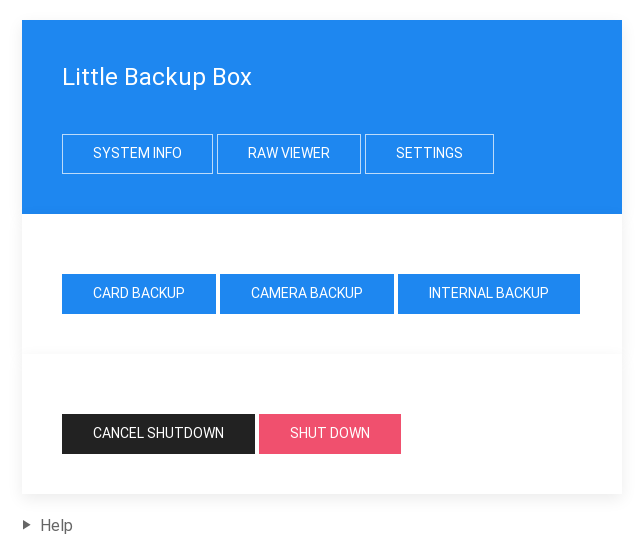
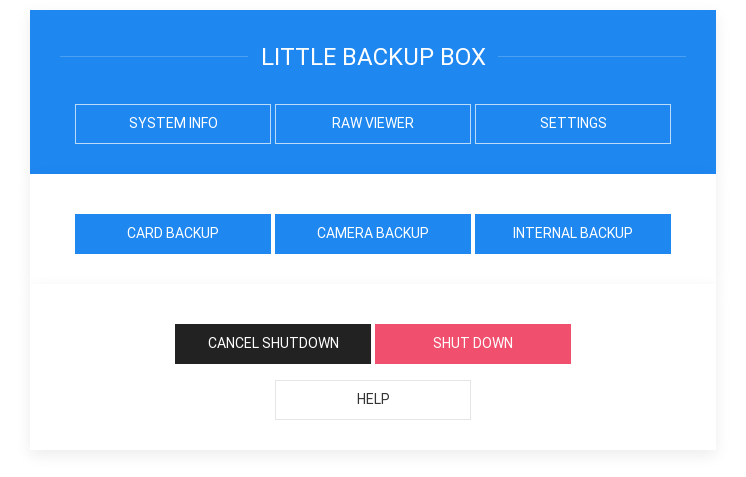
Further UI tweaks

diff --git a/scripts/index.php b/scripts/index.php
@@ -10,6 +10,11 @@
 	<link rel="stylesheet" href="css/uikit.min.css" />
 	<script src="js/uikit.min.js"></script>
 	<script src="js/uikit-icons.min.js"></script>
+	<style>
+		.uk-button {
+			width: 14em;
+		}
+	</style>
 </head>
 
 <body>
@@ -19,25 +24,35 @@
 	$i18n = new i18n('lang/{LANGUAGE}.ini', 'cache/', 'en');
 	$i18n->init();
 	?>
-	<div class="uk-container uk-margin-top">
-		<div class="uk-card uk-card-primary uk-card-body uk-width-1-2@m">
-			<h1 class="uk-card-title">Little Backup Box</h1>
-			<a class="uk-button uk-button-default uk-margin-top" href="sysinfo.php"><?php echo L::sysinfo; ?></a>
-			<a class="uk-button uk-button-default uk-margin-top" href="raw-viewer/"><?php echo L::viewer; ?></a>
-			<a class="uk-button uk-button-default uk-margin-top" href="config.php"><?php echo L::config; ?></a>
+	<div class="uk-container uk-margin-small-top">
+		<div class="uk-card uk-card-primary uk-card-body uk-text-center">
+			<h1 class="uk-card-title uk-heading-line uk-text-center"><span>LITTLE BACKUP BOX</span></h1>
+			<a class="uk-button uk-button-default uk-margin-small-top" href="sysinfo.php"><?php echo L::sysinfo; ?></a>
+			<a class="uk-button uk-button-default uk-margin-small-top" href="raw-viewer/"><?php echo L::viewer; ?></a>
+			<a class="uk-button uk-button-default uk-margin-small-top" href="config.php"><?php echo L::config; ?></a>
 		</div>
-		<div class="uk-card uk-card-default uk-card-body uk-width-1-2@m">
+		<div class="uk-card uk-card-default uk-card-body uk-text-center">
 			<form method="post">
-				<button class="uk-button uk-button-primary uk-margin-top" name="cardbackup"><?php echo L::cardbackup_b; ?></button>
-				<button class="uk-button uk-button-primary uk-margin-top" name="camerabackup"><?php echo L::camerabackup_b; ?></button>
-				<button class="uk-button uk-button-primary uk-margin-top" name="internalbackup"><?php echo L::internalbackup_b; ?></button>
+				<button class="uk-button uk-button-primary uk-margin-small-top" name="cardbackup"><?php echo L::cardbackup_b; ?></button>
+				<button class="uk-button uk-button-primary uk-margin-small-top" name="camerabackup"><?php echo L::camerabackup_b; ?></button>
+				<button class="uk-button uk-button-primary uk-margin-small-top" name="internalbackup"><?php echo L::internalbackup_b; ?></button>
 			</form>
 		</div>
-		<div class="uk-card uk-card-default uk-card-body uk-width-1-2@m">
+		<div class="uk-card uk-card-default uk-card-body uk-text-center">
 			<form method="post">
-				<button class="uk-button uk-button-secondary uk-margin-top" name="cancelshutdown"><?php echo L::cancel_shutdown_b; ?></button>
-				<button class="uk-button uk-button-danger uk-margin-top" name="shutdown"><?php echo L::shutdown_b; ?></button>
+				<button class="uk-button uk-button-secondary uk-margin-small-top" name="cancelshutdown"><?php echo L::cancel_shutdown_b; ?></button>
+				<button class="uk-button uk-button-danger uk-margin-small-top" name="shutdown"><?php echo L::shutdown_b; ?></button>
 			</form>
+			<button class="uk-button uk-button-default" type="button" uk-toggle="target: #modal-example"><?php echo L::help; ?></button>
+				<div id="modal-example" uk-modal>
+					<div class="uk-modal-dialog uk-modal-body">
+						<h2 class="uk-modal-title"><?php echo L::help; ?></h2>
+						<p><?php echo L::help_txt; ?></p>
+						<p class="uk-text-right">
+							<button class="uk-button uk-button-primary uk-modal-close" type="button"><?php echo L::back_b; ?></button>
+						</p>
+					</div>
+				</div>
 		</div>
 		<?php
 		if (isset($_POST['cardbackup'])) {
@@ -80,12 +95,6 @@
 			echo "</script";
 		}
 		?>
-		<p>
-			<details>
-				<summary><?php echo L::help; ?></summary>
-				<?php echo L::help_txt; ?>
-			</details>
-		</p>
 	</div>
 </body>
 

diff --git a/README.md b/README.md
@@ -45,7 +45,7 @@ The remote control mode is enabled by default. This mode allows you to control a
 1. Point the browser to _http://127.0.0.1:8000_ (replace _127.0.0.1_ with the actual IP address of the Raspberry Pi).
 2. Start the desired action by pressing the appropriate button.
 
-<img src="img/rc.png" alt="Remote control interface" height="500" />
+<img src="img/rc.png" alt="Remote control interface" />
 
 - Press the **SYSTEM INFO** icon to access basic system information, such as a list of storage devices and memory usage.
 - To view JPEG files on the backup storage device, click the  **RAW VIEWER** icon.
